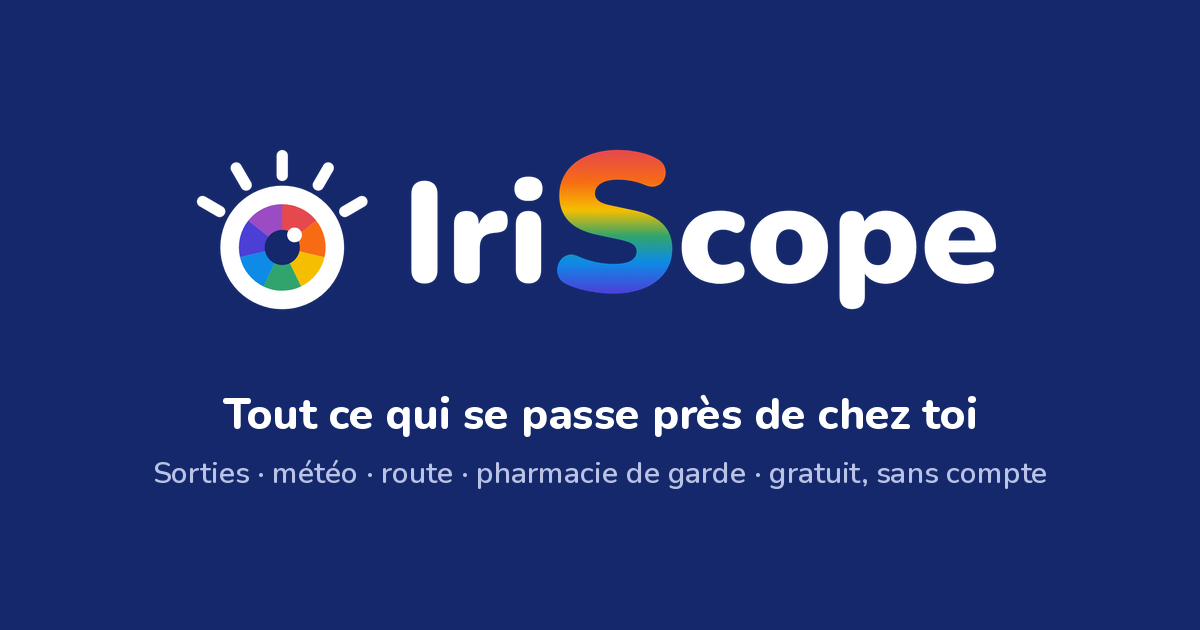
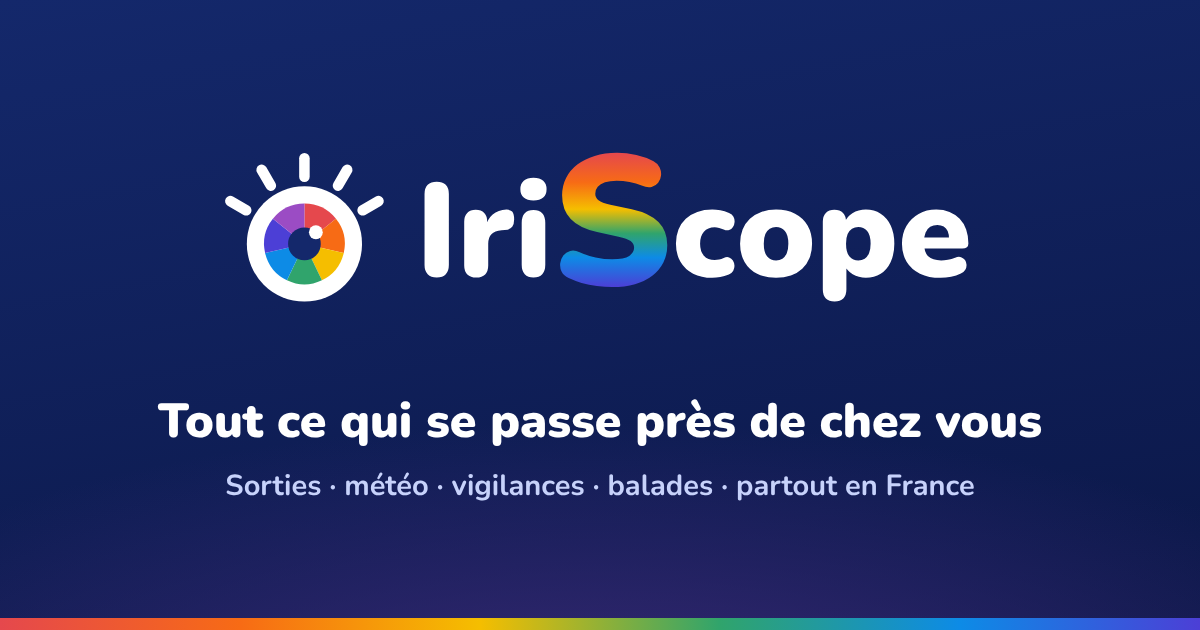
Gratuit pendant la phase de test : retrait de « pour toujours » et du prix
Claude-Session: https://claude.ai/code/session_01U4FnNkUUq2wdax5161pEGH

Changed region(s): [[0.0, 0.5429, 1.0, 1.0], [0.1542, 0.2413, 0.8325, 0.5127]]

diff --git a/index.html b/index.html
@@ -4,7 +4,7 @@
 <meta charset="utf-8">
 <meta name="viewport" content="width=device-width, initial-scale=1">
 <title>Iriscope : sorties, météo et infos pratiques près de chez vous</title>
-<meta name="description" content="Iriscope, l'appli gratuite de votre coin : concerts, spectacles, marchés et cinéma près de chez vous, météo, vigilances et balades, partout en France. Bientôt sur Google Play.">
+<meta name="description" content="Iriscope, l'appli de votre coin : concerts, spectacles, marchés et cinéma près de chez vous, météo, vigilances et balades, partout en France. Bientôt sur Google Play.">
 <link rel="canonical" href="https://iriscope-app.fr/">
 <meta name="robots" content="index, follow, max-image-preview:large">
 <meta name="color-scheme" content="dark">
@@ -19,7 +19,7 @@
 <meta property="og:site_name" content="Iriscope">
 <meta property="og:url" content="https://iriscope-app.fr/">
 <meta property="og:title" content="Iriscope : l'appli de votre coin">
-<meta property="og:description" content="Sorties, météo, vigilances et infos pratiques près de chez vous, en un coup d'œil chaque matin. Gratuit.">
+<meta property="og:description" content="Sorties, météo, vigilances et infos pratiques près de chez vous, en un coup d'œil chaque matin.">
 <meta property="og:image" content="https://iriscope-app.fr/img/partage.png">
 <meta property="og:image:width" content="1200">
 <meta property="og:image:height" content="630">
@@ -30,9 +30,9 @@
 {"@context":"https://schema.org","@graph":[
 {"@type":"Organization","@id":"https://iriscope-app.fr/#org","name":"IriScope","url":"https://iriscope-app.fr/","logo":"https://iriscope-app.fr/img/icone.png","email":"contact.iriscope@gmail.com"},
 {"@type":"WebSite","@id":"https://iriscope-app.fr/#site","url":"https://iriscope-app.fr/","name":"Iriscope","inLanguage":"fr-FR","publisher":{"@id":"https://iriscope-app.fr/#org"}},
-{"@type":"SoftwareApplication","name":"Iriscope","applicationCategory":"LifestyleApplication","operatingSystem":"Android, Web","inLanguage":"fr-FR","description":"L'appli de votre coin : sorties, météo et vigilances, balades et infos pratiques près de chez vous, partout en France.","image":"https://iriscope-app.fr/img/partage.png","offers":{"@type":"Offer","price":"0","priceCurrency":"EUR"},"publisher":{"@id":"https://iriscope-app.fr/#org"}},
+{"@type":"SoftwareApplication","name":"Iriscope","applicationCategory":"LifestyleApplication","operatingSystem":"Android, Web","inLanguage":"fr-FR","description":"L'appli de votre coin : sorties, météo et vigilances, balades et infos pratiques près de chez vous, partout en France.","image":"https://iriscope-app.fr/img/partage.png","publisher":{"@id":"https://iriscope-app.fr/#org"}},
 {"@type":"FAQPage","mainEntity":[
-{"@type":"Question","name":"Iriscope est-elle gratuite ?","acceptedAnswer":{"@type":"Answer","text":"Oui. Les sorties, la météo, les vigilances, les infos pratiques, la recherche et la lecture vocale sont gratuites, pour toujours."}},
+{"@type":"Question","name":"Iriscope est-elle gratuite ?","acceptedAnswer":{"@type":"Answer","text":"Iriscope est gratuite pendant la phase de test. Son fonctionnement définitif n'est pas encore arrêté : il sera annoncé sur ce site avant la sortie sur Google Play."}},
 {"@type":"Question","name":"Iriscope existe-t-elle sur Android et sur iPhone ?","acceptedAnswer":{"@type":"Answer","text":"Iriscope est en phase de tests intensifs. Sa sortie est prévue pour les fêtes de fin d'année sur Google Play (Android) et fin janvier sur l'App Store (iPhone). En attendant, les premiers testeurs l'utilisent déjà sur les deux."}},
 {"@type":"Question","name":"Quelles villes sont couvertes ?","acceptedAnswer":{"@type":"Answer","text":"Toute la France métropolitaine. Vous choisissez une ou plusieurs zones (domicile, travail, vacances) et Iriscope s'occupe du reste."}},
 {"@type":"Question","name":"Je gère une salle ou j'organise des événements : comment apparaître ?","acceptedAnswer":{"@type":"Answer","text":"C'est gratuit pour vous. Écrivez à contact.iriscope@gmail.com ou consultez la page dédiée aux salles."}}
@@ -170,8 +170,7 @@ h2{color:var(--h2);font-size:clamp(25px,6vw,34px);font-weight:900;line-height:1.
 .free{background:linear-gradient(160deg,var(--navy),var(--navy2));color:#fff;border-radius:26px;padding:26px 20px;position:relative;overflow:hidden}
 .free::after{content:"";position:absolute;left:0;right:0;bottom:0;height:6px;background:var(--arc-h)}
 .free h2{color:#fff}
-.free .price{font-size:54px;font-weight:900;line-height:1;margin:6px 0 2px}
-.free .price small{font-size:17px;font-weight:800;opacity:.9}
+.free .essai2{margin:6px 0 4px;font-size:17px;opacity:.95;max-width:30em}
 ul.ok{list-style:none;padding:0;margin:14px 0 0}
 @media (min-width:620px){ul.ok{columns:2;column-gap:28px}}
 ul.ok li{padding:5px 0 5px 28px;position:relative;break-inside:avoid}
@@ -236,8 +235,8 @@ footer a{font-weight:800}
           <a class="btn btn-main" href="/commencer/">Essayer <span class="iri">Iri<span>S</span>cope</span></a>
           <a class="btn btn-soon" href="#contact">Faire partie des premiers</a>
         </div>
-        <p class="essai">Version d'essai, gratuite. Sortie sur Google Play pour les fêtes de fin d'année.</p>
-        <ul class="ticks"><li>Gratuit</li><li>Votre ville et vos lieux de vacances</li><li>Pour toute la famille</li></ul>
+        <p class="essai">Version d'essai. Sortie sur Google Play prévue pour les fêtes de fin d'année.</p>
+        <ul class="ticks"><li>Gratuit pendant la phase de test</li><li>Votre ville et vos lieux de vacances</li><li>Pour toute la famille</li></ul>
       </div>
       <div class="stage">
         <div class="float f1" aria-hidden="true">⛅<span>9° à Lyon<small>Éclaircies</small></span></div>
@@ -380,8 +379,8 @@ footer a{font-weight:800}
 
 <section aria-labelledby="gratuit">
   <div class="free">
-    <h2 id="gratuit">Gratuit, pour toujours</h2>
-    <p class="price">0 € <small>sans abonnement</small></p>
+    <h2 id="gratuit">Gratuit pendant la phase de test</h2>
+    <p class="essai2">Aujourd'hui, les testeurs essaient tout cela librement, et leurs retours font grandir l'appli.</p>
     <ul class="ok">
       <li>Toutes les sorties de vos zones</li>
       <li>Météo et vigilances officielles</li>
@@ -407,7 +406,7 @@ footer a{font-weight:800}
 
 <section aria-labelledby="faq">
   <h2 id="faq">Questions fréquentes</h2>
-  <details><summary><span class="iri">Iri<span>S</span>cope</span> est-elle gratuite ?</summary><p>Oui. Les sorties, la météo, les vigilances, les infos pratiques, la recherche et la lecture vocale sont gratuites, pour toujours.</p></details>
+  <details><summary><span class="iri">Iri<span>S</span>cope</span> est-elle gratuite ?</summary><p><span class="iri">Iri<span>S</span>cope</span> est gratuite pendant la phase de test. Son fonctionnement définitif n'est pas encore arrêté : nous l'annoncerons ici avant la sortie sur Google Play.</p></details>
   <details><summary>Existe-t-elle sur Android et sur iPhone ?</summary><p><span class="iri">Iri<span>S</span>cope</span> est en phase de tests intensifs. Sa sortie est prévue pour les fêtes de fin d'année sur Google Play (Android) et fin janvier sur l'App Store (iPhone). Ces dates peuvent bouger un peu. Pour l'essayer dès maintenant, faites partie des premiers testeurs.</p></details>
   <details><summary>Quelles villes sont couvertes ?</summary><p>Toute la France métropolitaine. Vous choisissez une ou plusieurs zones (domicile, travail, vacances) et <span class="iri">Iri<span>S</span>cope</span> s'occupe du reste.</p></details>
   <details><summary>Je gère une salle : comment apparaître ?</summary><p>C'est gratuit pour vous. Écrivez-nous ou consultez la <a href="/salles/">page dédiée aux salles</a>.</p></details>

diff --git a/commencer/index.html b/commencer/index.html
@@ -1,13 +1,13 @@
 <!doctype html>
 <html lang="fr"><head><meta charset="utf-8"><meta name="viewport" content="width=device-width, initial-scale=1">
 <title>Créer mon compte IriScope</title>
-<meta name="description" content="Choisissez votre appareil et créez votre compte IriScope en un coup d'œil. C'est gratuit.">
+<meta name="description" content="Choisissez votre appareil et créez votre compte IriScope en un coup d'œil. Gratuit pendant la phase de test.">
 <meta name="robots" content="noindex">
 <link rel="icon" href="/favicon.ico"><meta name="color-scheme" content="dark"><meta name="theme-color" content="#14286B">
 <meta property="og:type" content="website"><meta property="og:site_name" content="IriScope">
 <meta property="og:url" content="https://iriscope-app.fr/commencer/">
 <meta property="og:title" content="Créez votre compte IriScope">
-<meta property="og:description" content="Android, iPhone, PC, Mac ou Linux : le bon lien pour votre appareil. Gratuit.">
+<meta property="og:description" content="Android, iPhone, PC, Mac ou Linux : le bon lien pour votre appareil. Gratuit pendant la phase de test.">
 <meta property="og:image" content="https://iriscope-app.fr/img/commencer.png"><meta property="og:image:width" content="1080"><meta property="og:image:height" content="1080">
 <meta name="twitter:card" content="summary_large_image">
 <style>
@@ -32,7 +32,7 @@ ol{margin:8px 0 12px;padding-left:22px;color:var(--muted)}li{margin:3px 0}
 </style></head><body>
 <div class="bar"></div>
 <header><a class="back" href="/">← Accueil</a><a href="/"><img src="/img/logo-fonce.svg" alt="IriScope" width="176" height="46"></a>
-<h1>Créez votre compte</h1><p>Choisissez votre appareil. C'est gratuit.</p>
+<h1>Créez votre compte</h1><p>Choisissez votre appareil. Gratuit pendant la phase de test.</p>
 <a class="decouvrir" href="/">✨ Découvrir <span class="iri" style="margin:0 .3em">Iri<span>S</span>cope</span> en 1 minute</a></header>
 <main>
 <section class="os" id="android" style="--c:#30A46C"><h2>📱 Android<span class="mine">Votre appareil</span></h2>

diff --git a/salles/index.html b/salles/index.html
@@ -53,7 +53,7 @@ body{padding-bottom:0}
 <header><div class="wrap">
 <a href="/"><img src="logo-fonce.png" alt="IriScope"></a>
 <h1>Faire connaître votre salle à ceux qui habitent autour</h1>
-<p><span class="iri">Iri<span>S</span>cope</span> est une appli gratuite qui réunit, pour chaque habitant, les sorties de son coin. Votre programme y a toute sa place.</p>
+<p><span class="iri">Iri<span>S</span>cope</span> est une appli qui réunit, pour chaque habitant, les sorties de son coin. Votre programme y a toute sa place.</p>
 </div></header>
 
 <div class="wrap">
